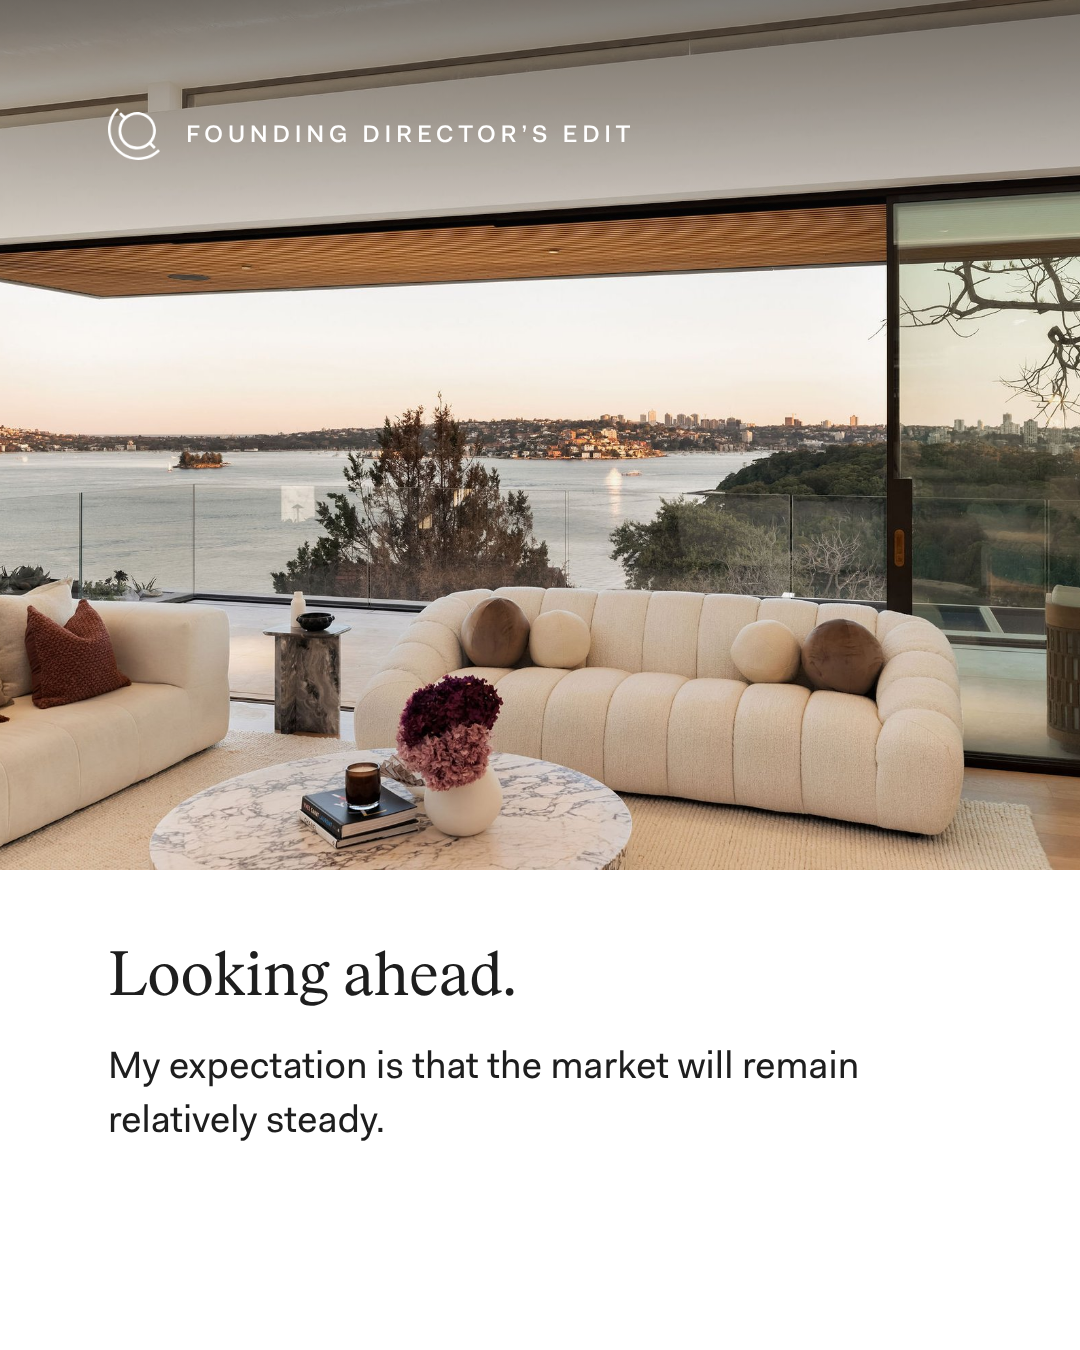
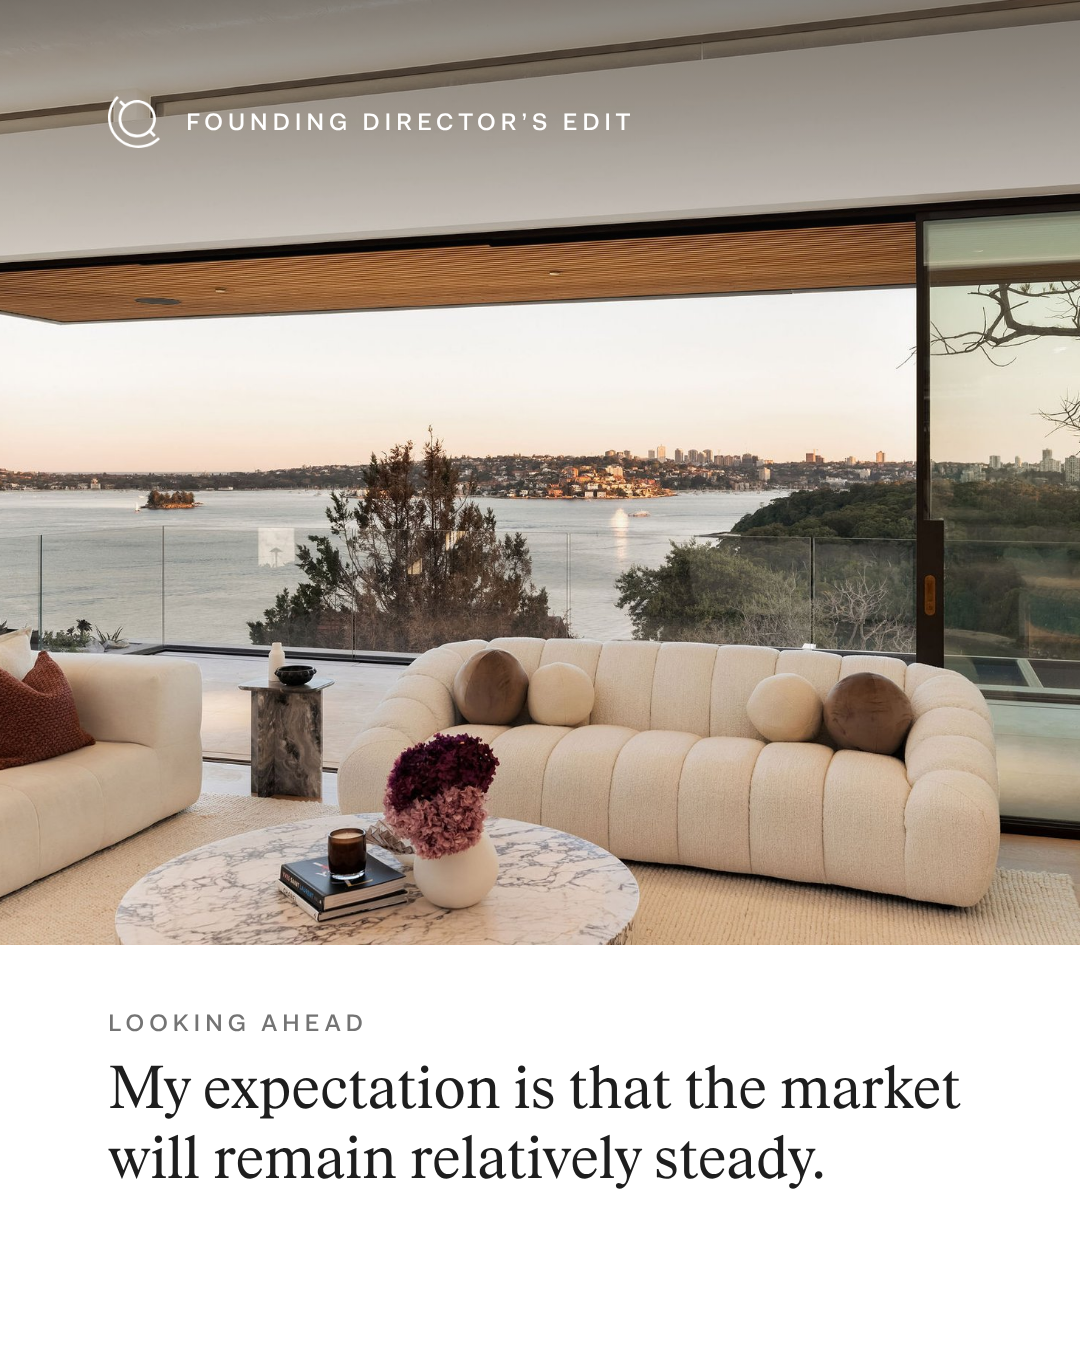
Founding Director's Edit carousel v4: visual audit fixes
- One grid: Case Study 70/30 photo-panel split, tag at 96, 108px margins
- Statement slides centre their block, so copy length no longer leaves a hole
- Slide 2 restores the full thought, with controlled line breaks
- Slide 6 leads with the outlook, Looking ahead becomes the label
- Slide 7 photos cropped to the frame; slide 8 hangs the opening quote

Claude-Session: https://claude.ai/code/session_01JwaQGF29hCT2wGxLRb5jt9

diff --git a/founding-directors-edit/2026-11-carousel/caption.md b/founding-directors-edit/2026-11-carousel/caption.md
@@ -3,14 +3,14 @@
 8 slides, 1080 x 1350 (4:5). Post in order `01.png` to `08.png`.
 Layout follows the Atlas feed carousels in Canva (Life and Local, Meet the Team, PM Case Study): brandmark and series tag top-left, photo-led slides, Stone, White and Terra, and a Stone end card with LINK IN BIO.
 
-## On-slide copy (tightened 10 Nov 2026)
+## On-slide copy (tightened 10 Nov 2026, layout v4)
 
 1. A note from Michael Coombs / Where I'm seeing opportunity.
-2. Homes that would be difficult to recreate.
+2. Some of the most compelling opportunities are in homes that would be difficult to recreate.
 3. The value of what's already built. / 9 Burrawong Avenue, Mosman
 4. Burrawong alone took six years to create. / Designed by McNally Architects
 5. What would it take to achieve the same result?
-6. Looking ahead. / My expectation is that the market will remain relatively steady.
+6. LOOKING AHEAD (label) / My expectation is that the market will remain relatively steady.
 7. Two exceptional Mosman residences. / 9 Burrawong Avenue / 9 Sirius Avenue
 8. "It's about recognising the right property, understanding its value and making an informed decision." / Michael Coombs, Founding Director / Link in bio
 
